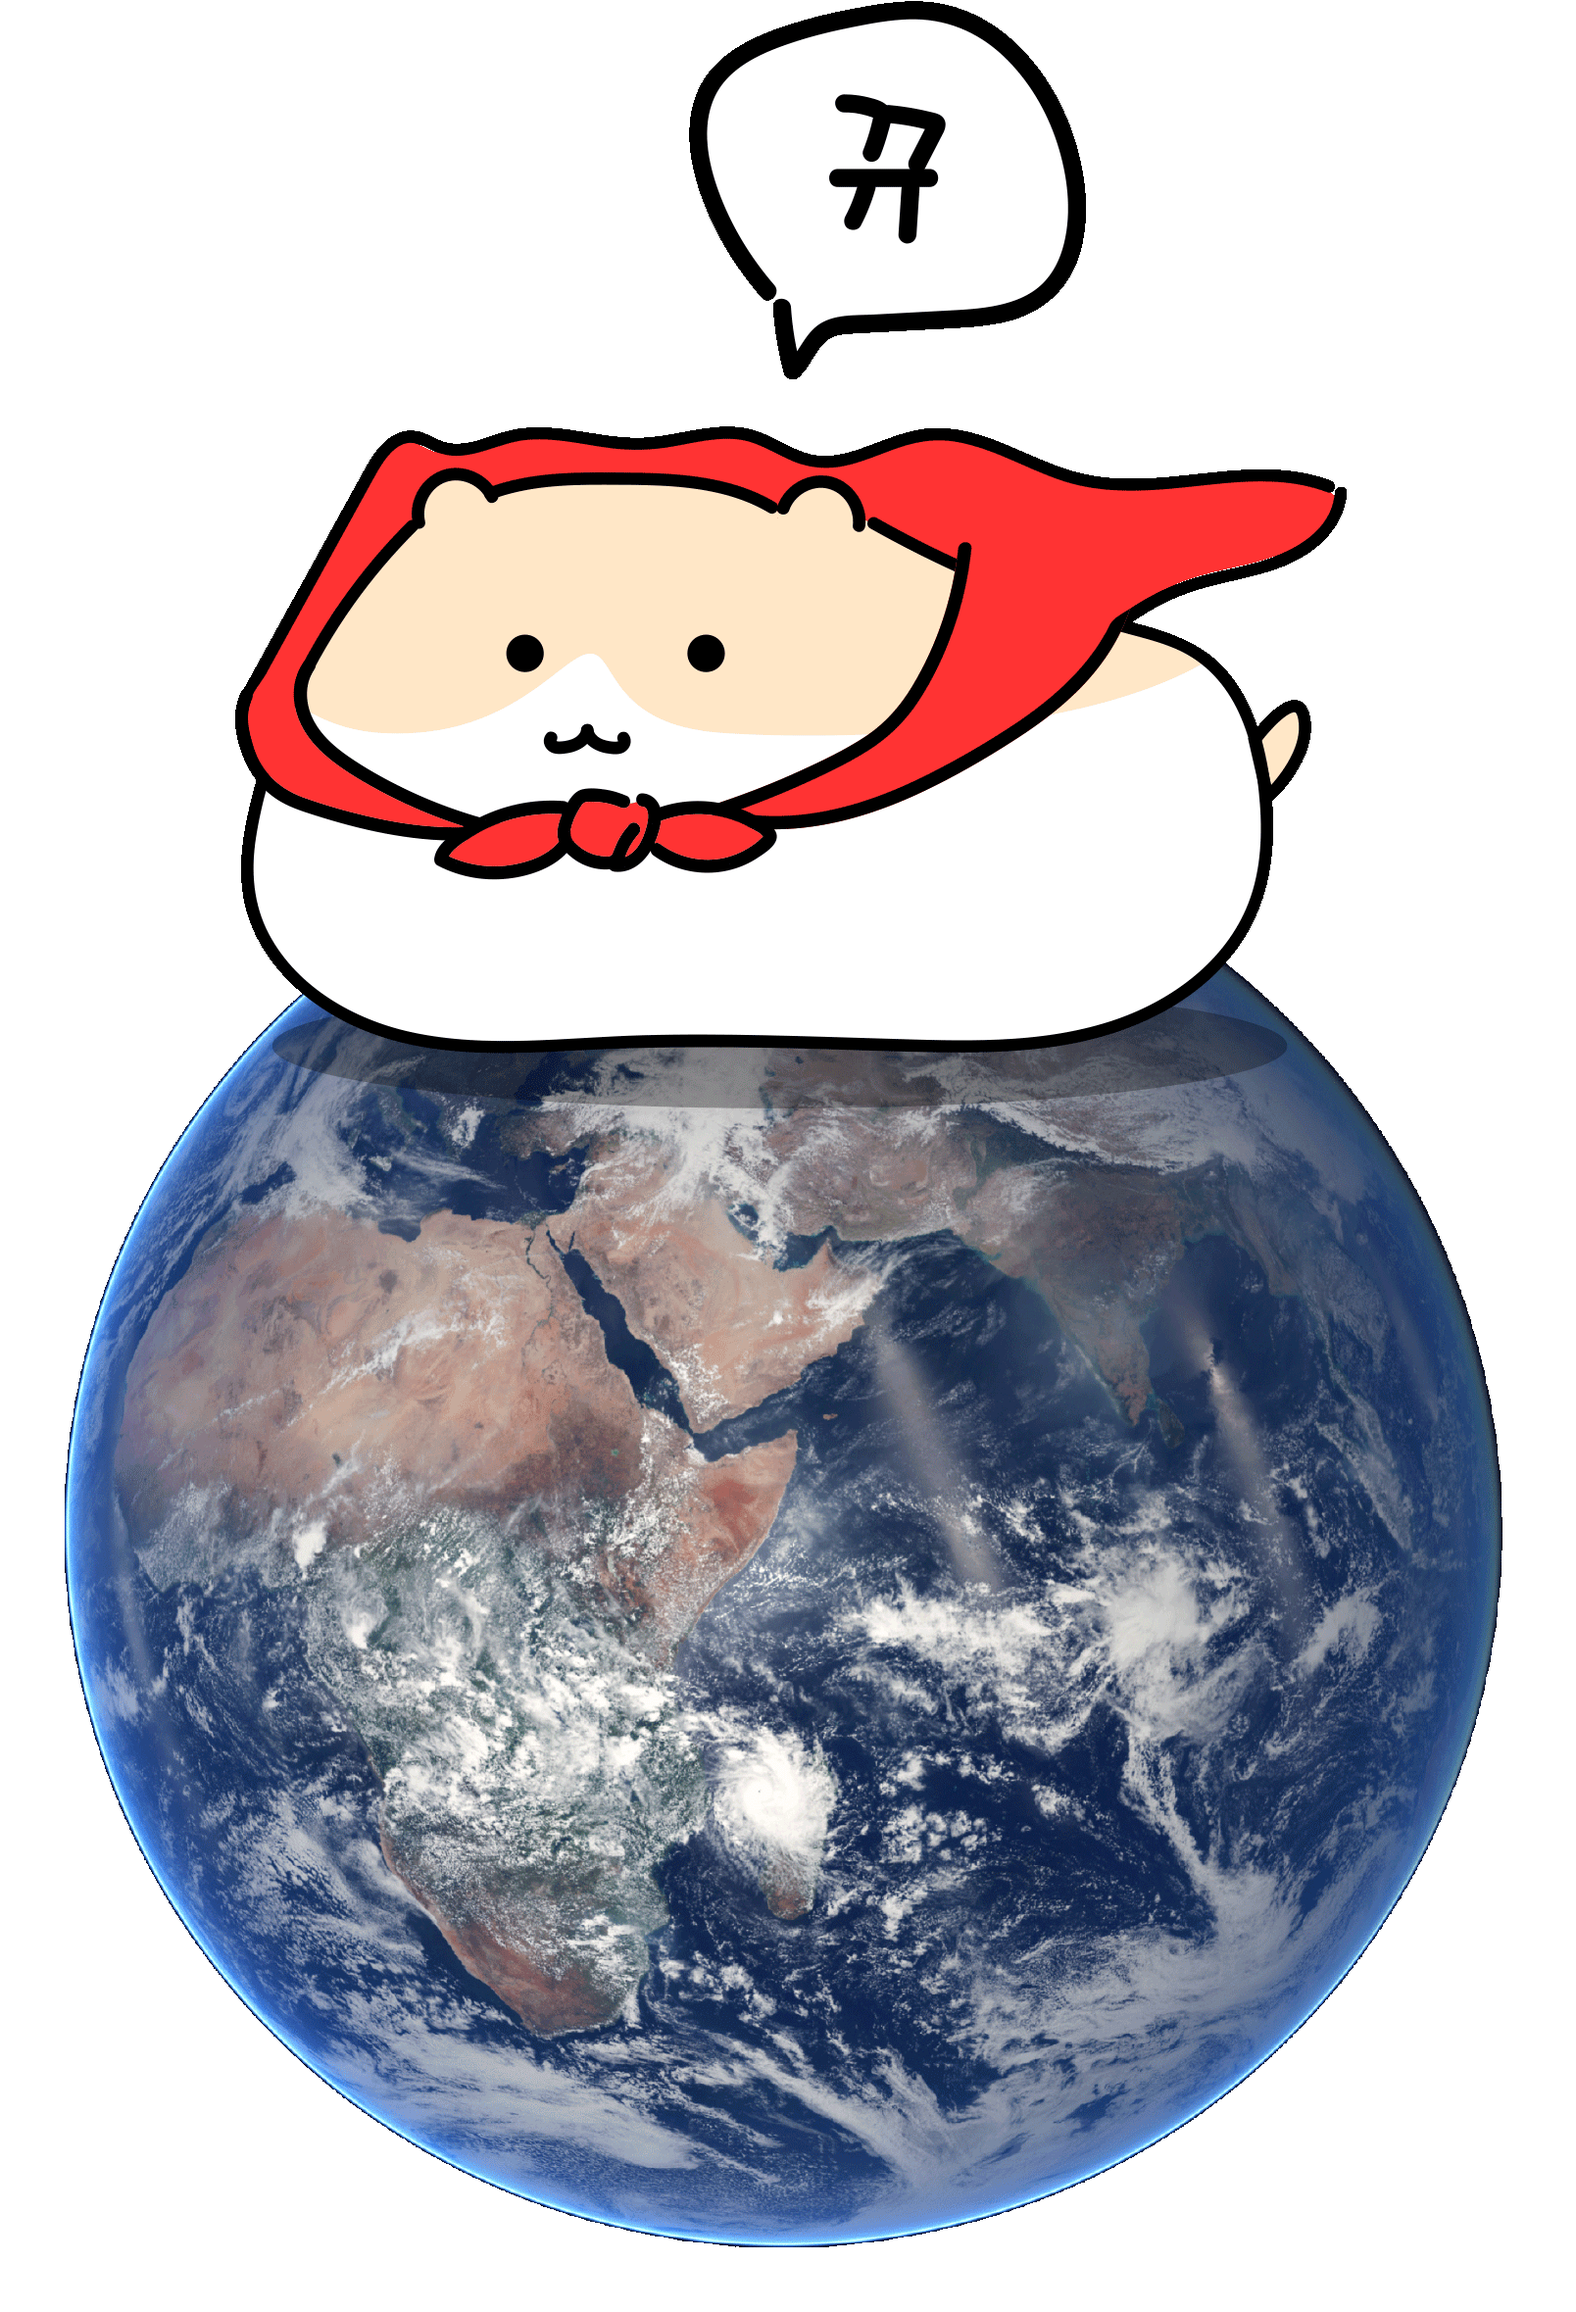
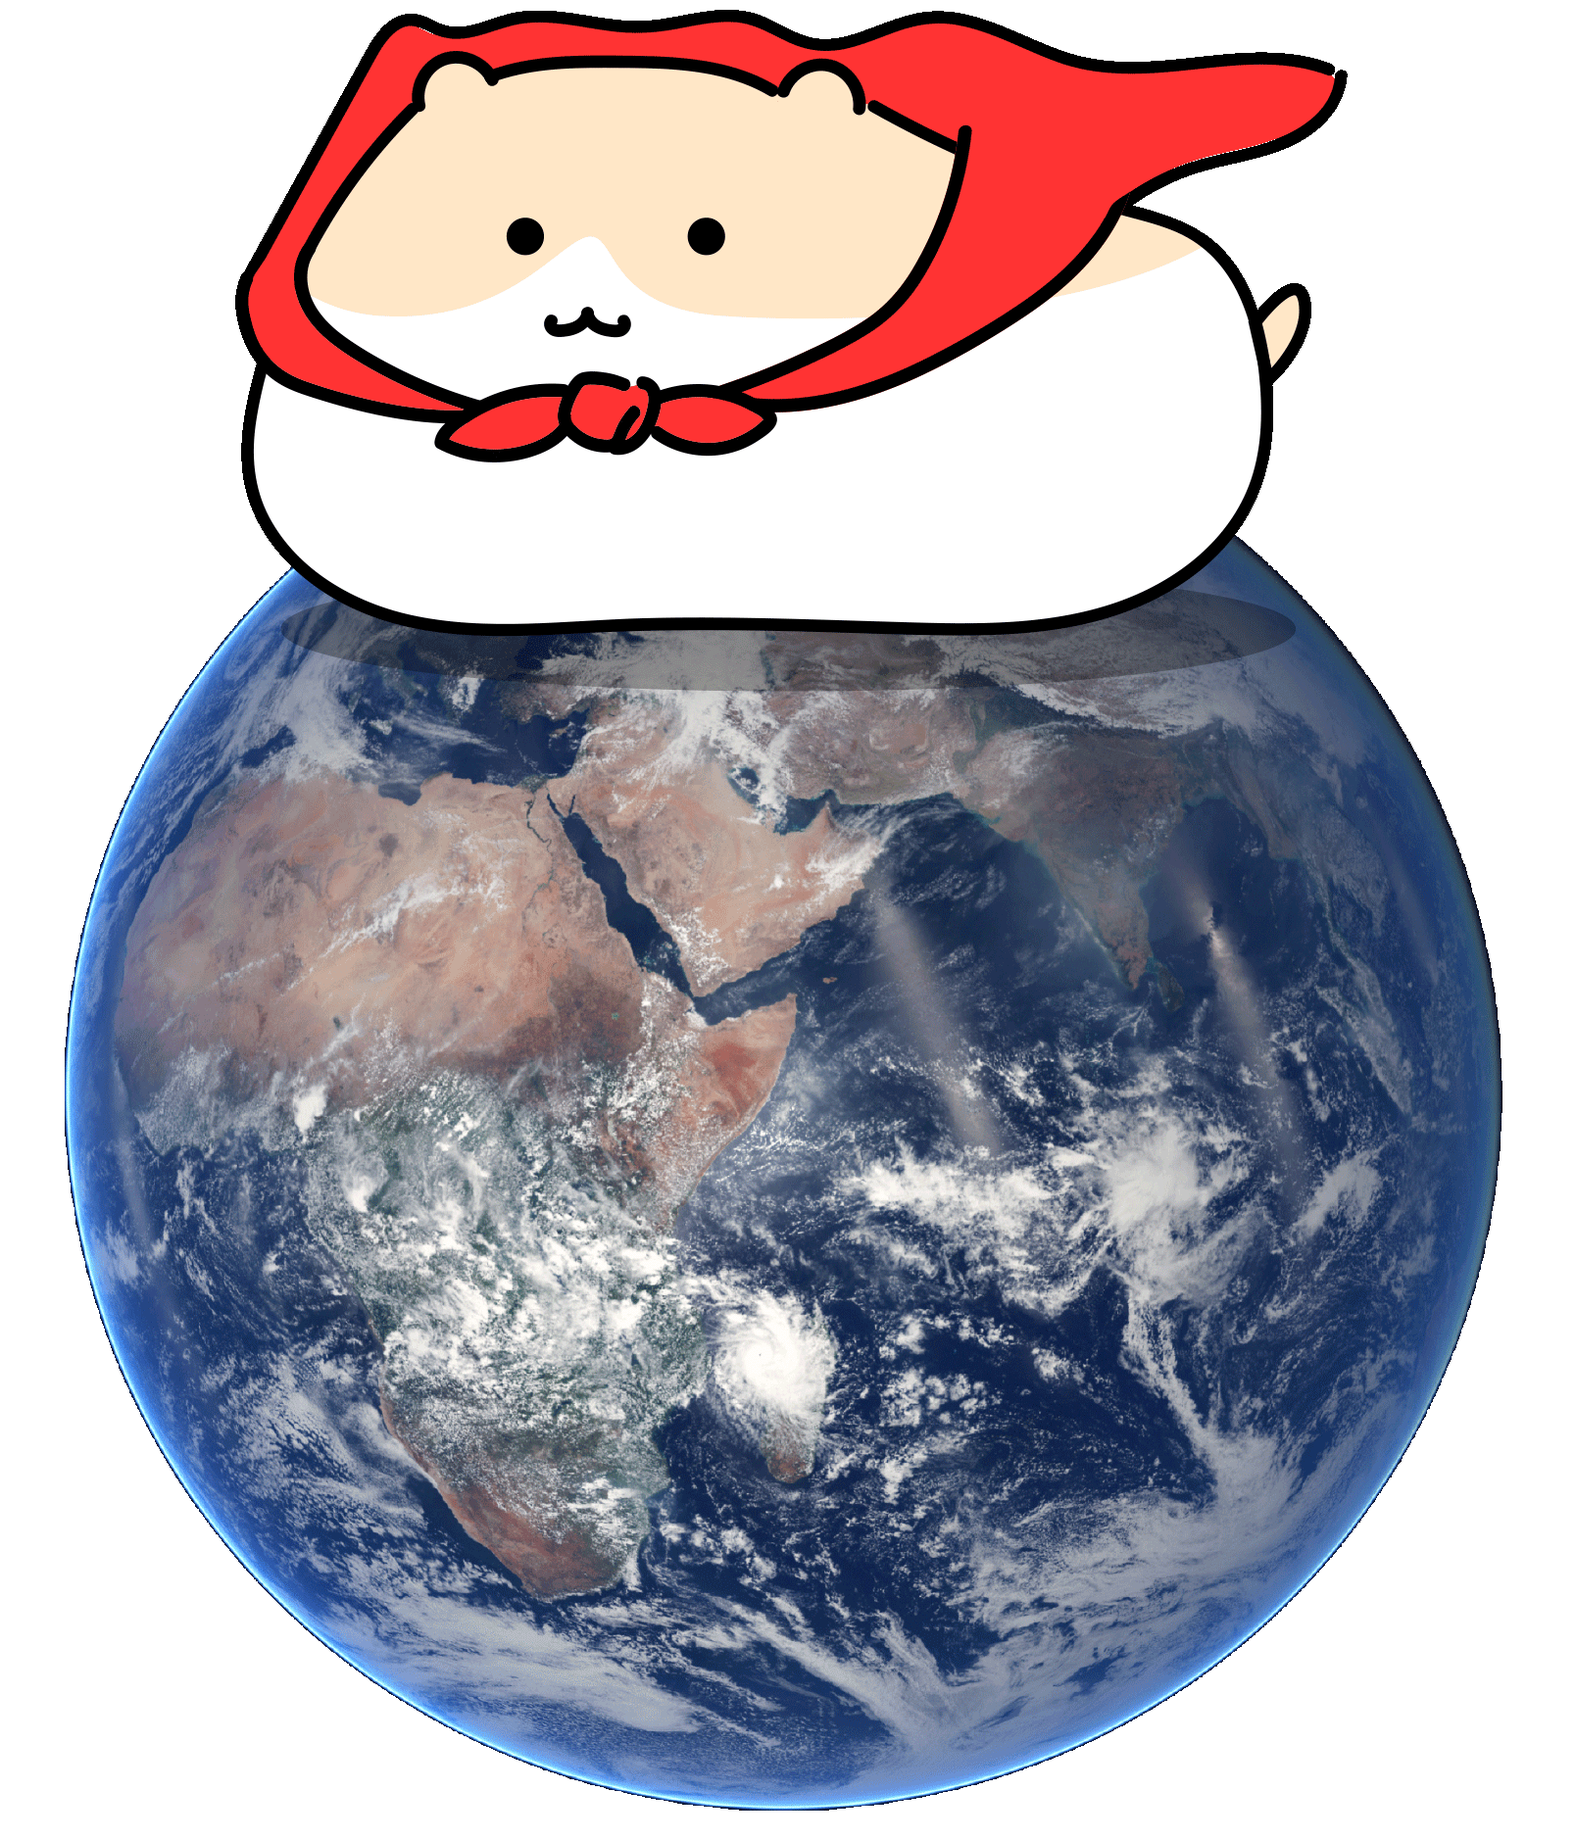
시작 페이지 작업

diff --git a/start-page.css b/start-page.css
@@ -1,0 +1,41 @@
+@charset "UTF-8";
+#start-page {
+  width: 100%;
+  height: 100%;
+  display: -webkit-box;
+  display: -ms-flexbox;
+  display: flex;
+  -webkit-box-align: center;
+      -ms-flex-align: center;
+          align-items: center;
+  -webkit-box-pack: center;
+      -ms-flex-pack: center;
+          justify-content: center;
+  -webkit-box-orient: vertical;
+  -webkit-box-direction: normal;
+      -ms-flex-direction: column;
+          flex-direction: column;
+  background-size: cover;
+  background-position: center;
+  background-image: url("/img/우주.png");
+}
+
+#start-page .speech-bubble {
+  width: 60px;
+  height: 60px;
+  opacity: 0;
+  background-size: cover;
+  background-position: center;
+  background-image: url("/img/뀨말풍선.png");
+  margin-left: 10%;
+  margin-bottom: 2%;
+}
+
+#start-page .ham-on-earth {
+  width: 220px;
+  height: 270px;
+  background-size: cover;
+  background-position: center;
+  background-image: url("/img/히어로햄스터와-지구.png");
+}
+/*# sourceMappingURL=start-page.css.map */

diff --git a/setting.css b/setting.css
@@ -1,19 +1,36 @@
-
-*{margin:0; padding:0; box-sizing: border-box; list-style-type: none;}
+* {
+  margin: 0;
+  padding: 0;
+  -webkit-box-sizing: border-box;
+          box-sizing: border-box;
+  list-style-type: none;
+}
 
 body {
   width: 100vw;
   height: 100vh;
+  display: -webkit-box;
+  display: -ms-flexbox;
   display: flex;
-  align-items: center;
-  justify-content: center;
-  background-color: #fff;
+  -webkit-box-align: center;
+      -ms-flex-align: center;
+          align-items: center;
+  -webkit-box-pack: center;
+      -ms-flex-pack: center;
+          justify-content: center;
+  background-color: #e7e7e7;
 }
 
-#phone {
+body #phone {
   width: 390px;
   height: 844px;
   border-radius: 25px;
+  display: -webkit-box;
+  display: -ms-flexbox;
   display: flex;
+  overflow: hidden;
   background-color: #ccc;
+  -webkit-box-shadow: 5px 5px 5px rgba(0, 0, 0, 0.2);
+          box-shadow: 5px 5px 5px rgba(0, 0, 0, 0.2);
 }
+/*# sourceMappingURL=setting.css.map */

diff --git a/start-page.scss b/start-page.scss
@@ -1,0 +1,36 @@
+
+#start-page {
+  width: 100%;
+  height: 100%;
+
+  display: flex;
+  align-items: center;
+  justify-content: center;
+  flex-direction: column;
+
+  background-size: cover;
+  background-position: center;
+  background-image: url("/img/우주.png");
+
+  .speech-bubble {
+    width: 60px;
+    height: 60px;
+    opacity: 0;
+
+    background-size: cover;
+    background-position: center;
+    background-image: url("/img/뀨말풍선.png");
+
+    margin-left:10%;
+    margin-bottom:2%;
+  }
+
+  .ham-on-earth {
+    width: 220px;
+    height: 270px;
+
+    background-size: cover;
+    background-position: center;
+    background-image: url("/img/히어로햄스터와-지구.png");
+  }
+}

diff --git a/setting.scss b/setting.scss
@@ -1,0 +1,22 @@
+
+*{margin:0; padding:0; box-sizing: border-box; list-style-type: none;}
+
+body {
+  width: 100vw;
+  height: 100vh;
+  display: flex;
+  align-items: center;
+  justify-content: center;
+  background-color: rgb(231, 231, 231);
+  
+  #phone {
+    width: 390px;
+    height: 844px;
+    border-radius: 25px;
+    display: flex;
+    overflow: hidden;
+    background-color: #ccc;
+  
+    box-shadow: 5px 5px 5px rgba(0,0,0,0.2);
+  }
+}

diff --git a/index.html b/index.html
@@ -6,13 +6,16 @@
   <meta name="viewport" content="width=device-width, initial-scale=1.0">
 
   <link rel="stylesheet" href="/GGYU-css-all.css">
-  <script src="/GGYU.js"></script>
+  <script src="/GGYU.js"defer></script>
 
   <title>뀨 GGYU</title>
 </head>
 <body>
   <div id="phone">
-    
+    <div id="start-page">
+      <div class="speech-bubble"></div>
+      <div class="ham-on-earth"></div>
+    </div>
   </div>
 </body>
 </html>

diff --git a/GGYU.js b/GGYU.js
@@ -1,0 +1,8 @@
+// start-page
+
+const speechBubble = document.querySelector(".speech-bubble");
+console.log(speechBubble);
+
+setTimeout (function() {
+  speechBubble.style.opacity = 1;
+},3000);

diff --git a/GGYU-css-all.css b/GGYU-css-all.css
@@ -1,3 +1,3 @@
 
 @import url("/setting.css");
-@import url("/star-page.css");
+@import url("/start-page.css");
